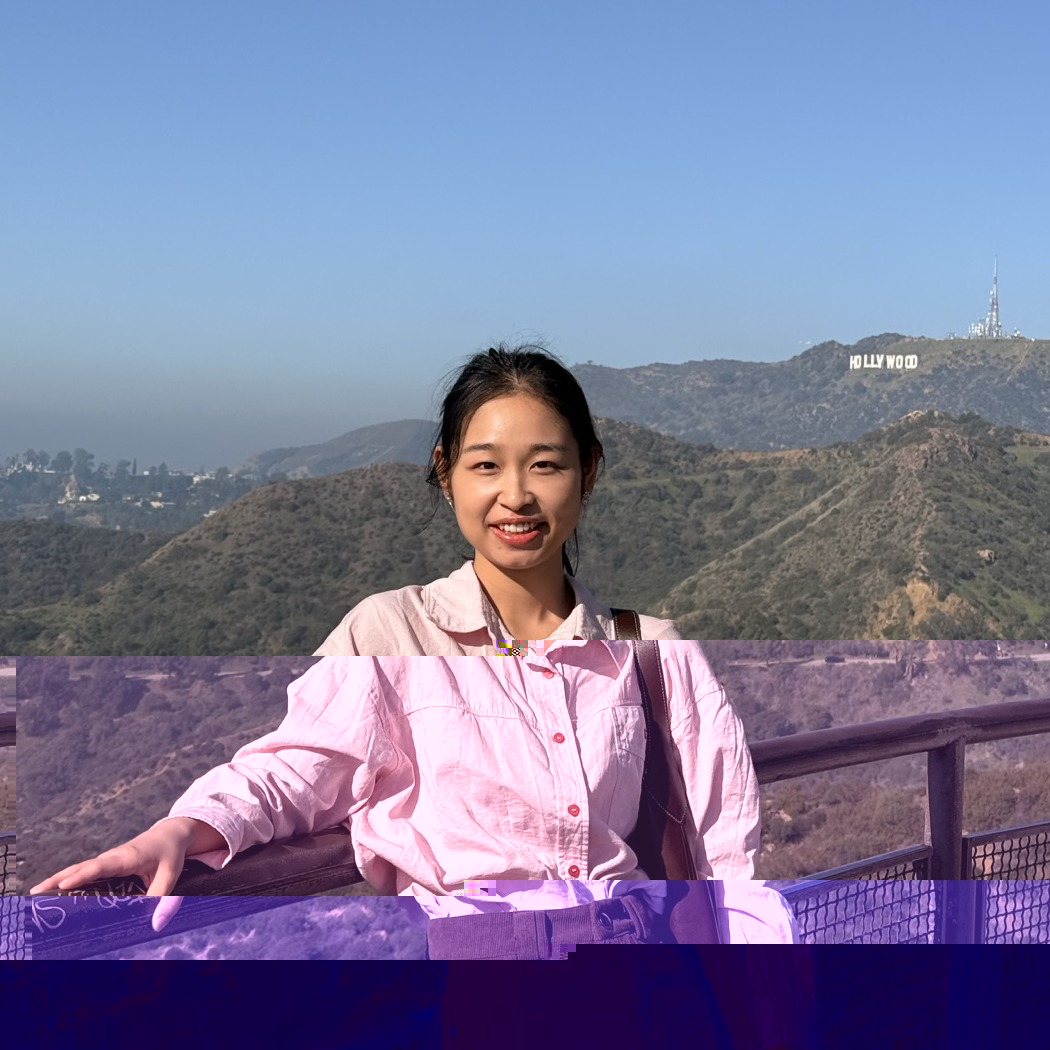
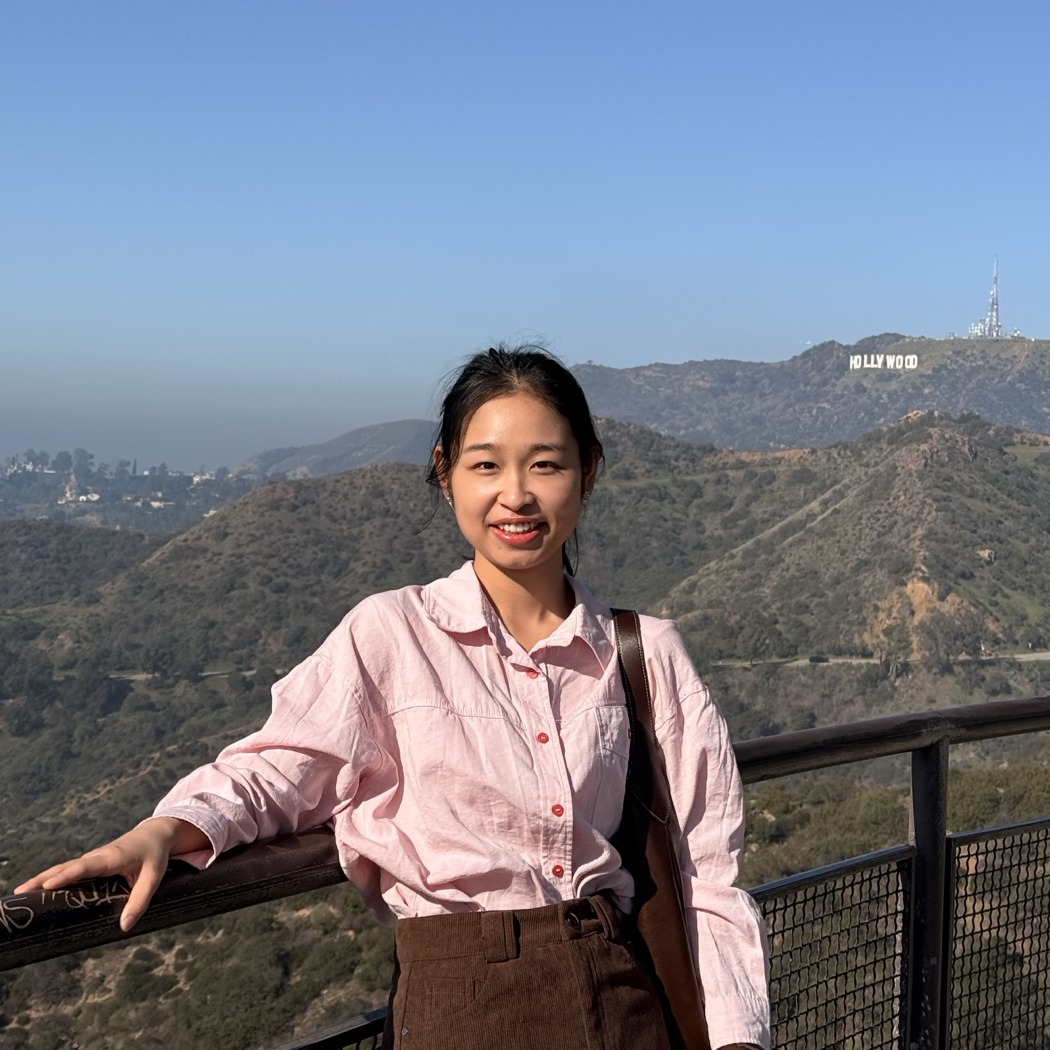
Fix binary file corruption from git eol normalization; brighten dark-mode dot pattern
.gitattributes forced 'text eol=lf' on all files without exempting pdf/jpg/ico,
which corrupted resume.pdf, profile-photo.jpg, and favicon.ico on commit.
Also fixes the Experience/Education dot-grid decoration being invisible in
dark mode (12% opacity purple was unreadable against the dark background).

diff --git a/src/containers/workExperience/WorkExperience.scss b/src/containers/workExperience/WorkExperience.scss
@@ -32,6 +32,11 @@
   pointer-events: none;
 }
 
+.dark-mode .experience-container::before {
+  background-image: radial-gradient(circle, #b98cf0 1.5px, transparent 1.5px);
+  opacity: 0.25;
+}
+
 @media (max-width: 1000px) {
   .experience-container::before {
     display: none;

diff --git a/src/containers/education/Education.scss b/src/containers/education/Education.scss
@@ -29,6 +29,11 @@
   pointer-events: none;
 }
 
+.dark-mode .education-section::before {
+  background-image: radial-gradient(circle, #b98cf0 1.5px, transparent 1.5px);
+  opacity: 0.25;
+}
+
 @media (max-width: 1000px) {
   .education-section::before {
     display: none;
